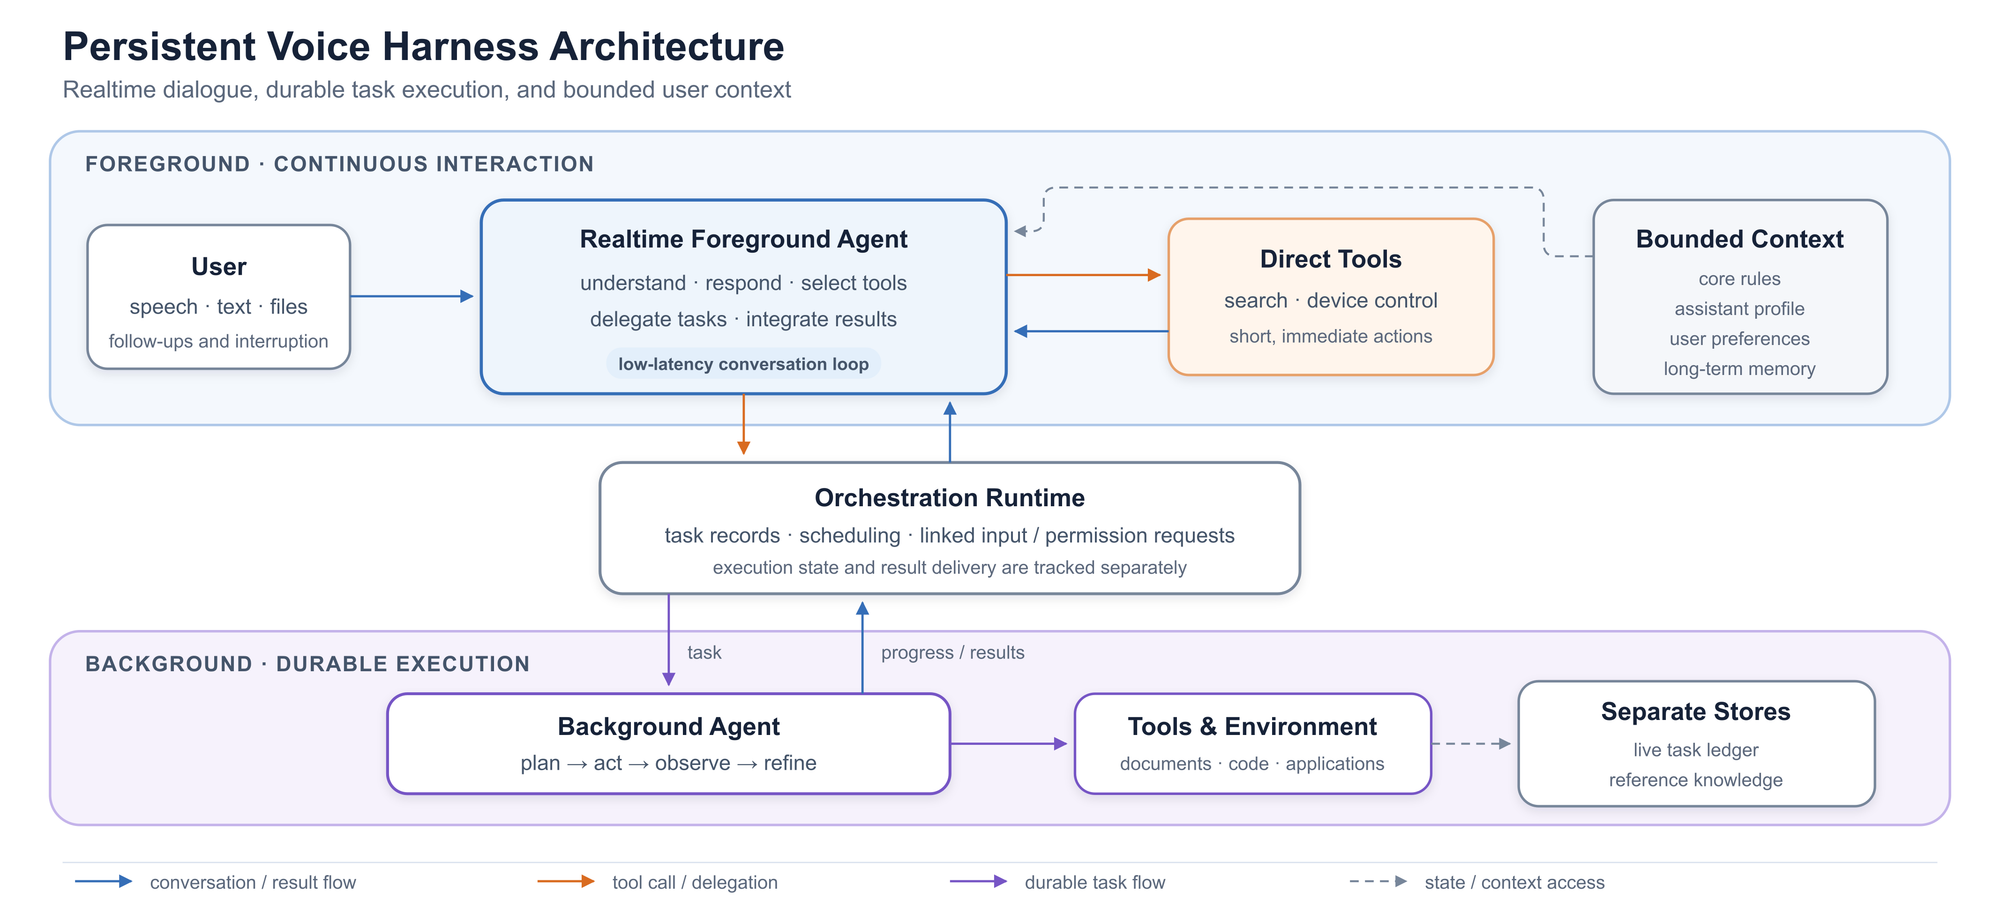
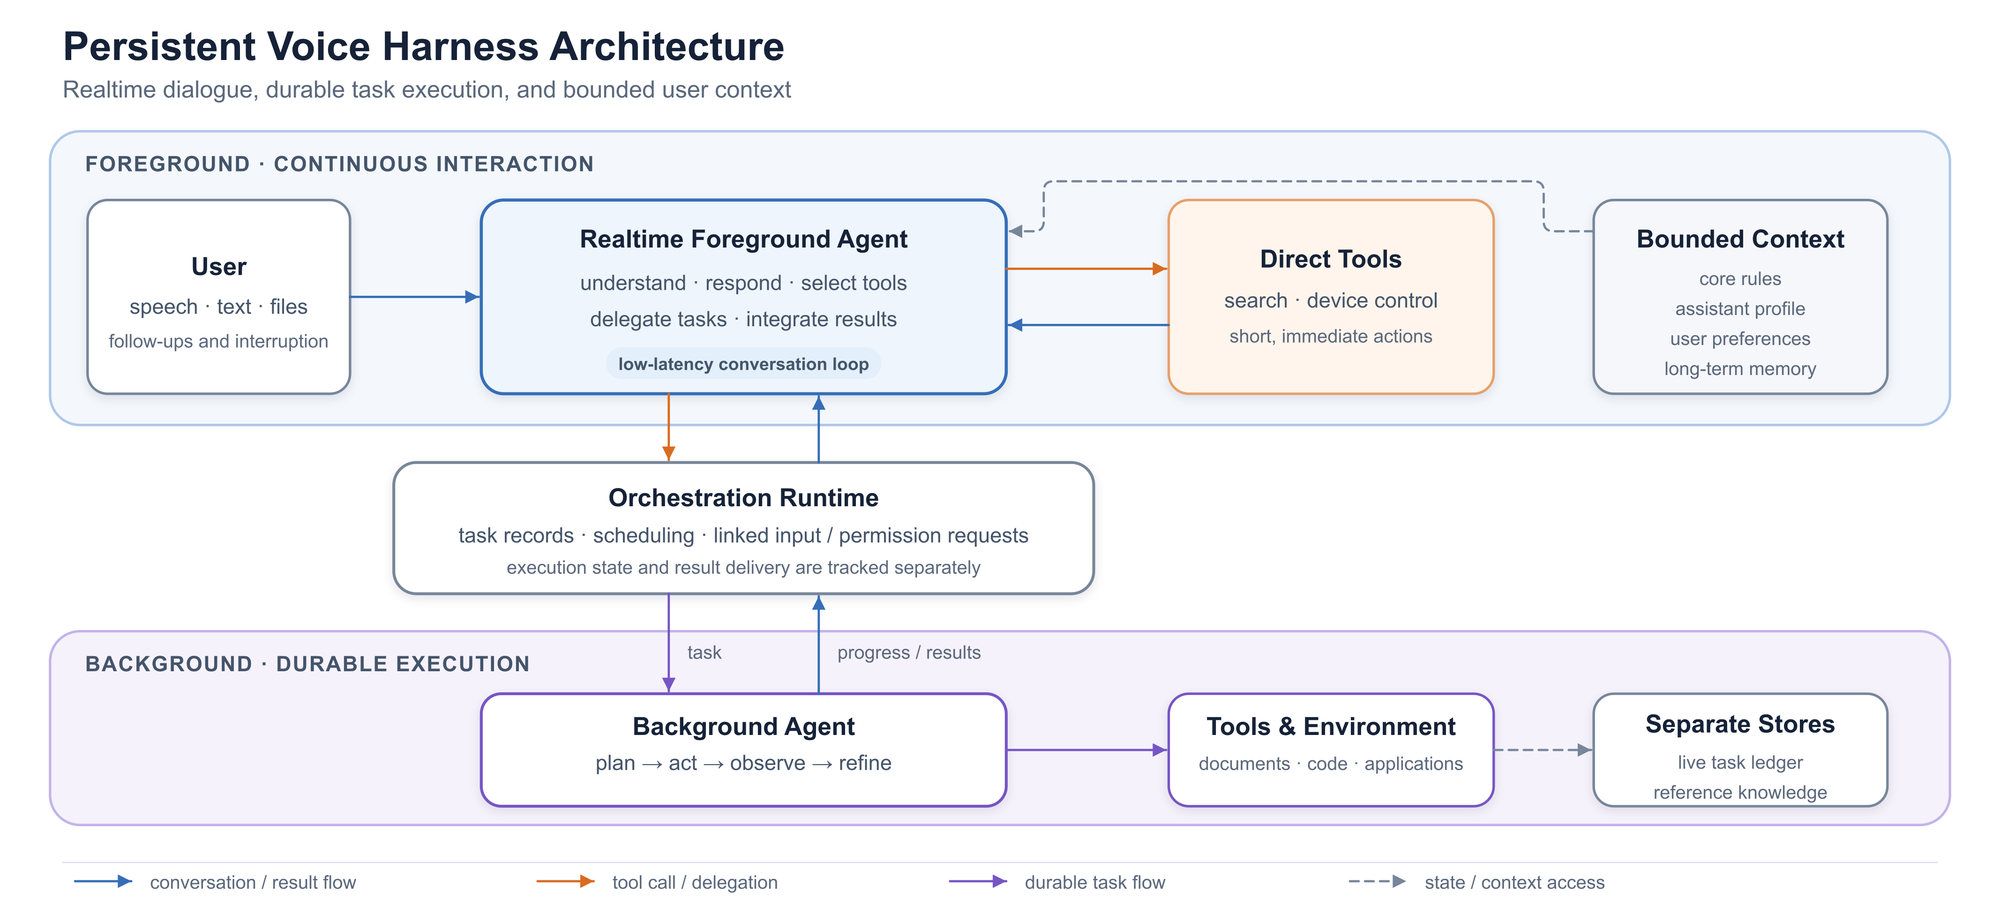
Agent section figure: latest Persistent Voice Harness Architecture (+cache-bust)

diff --git a/qwen-audio-3.1-realtime/index.html b/qwen-audio-3.1-realtime/index.html
@@ -85,7 +85,7 @@
     <section id="agent" class="section wrap agent-section">
       <div class="agent-report-link"><a class="button secondary" href="https://arxiv.org/pdf/2609.25195" target="_blank" rel="noopener">Voice Agent Technical Report <span aria-hidden="true">↗</span></a></div>
       <div class="agent-intro"><div><span class="eyebrow">BEYOND THE MODEL · A SYSTEM EXTENSION</span><h2>Keep talking.<br><span>The work continues.</span></h2></div><p>A persistent voice-agent runtime keeps the conversation responsive while longer tasks move forward—with explicit state, bounded memory, and results delivered at the right moment.</p></div>
-      <figure class="agent-arch"><img src="assets/persistent-voice-harness.png?v=1" width="2000" height="900" loading="lazy" alt="Persistent voice harness architecture: a foreground continuous-interaction layer with the user, realtime foreground agent, direct tools and bounded context; an orchestration runtime tracking task records and permissions; and a background durable-execution layer with a background agent, tools and environment, and separate stores."></figure>
+      <figure class="agent-arch"><img src="assets/persistent-voice-harness.png?v=2" width="2000" height="900" loading="lazy" alt="Persistent voice harness architecture: a foreground continuous-interaction layer with the user, realtime foreground agent, direct tools and bounded context; an orchestration runtime tracking task records and permissions; and a background durable-execution layer with a background agent, tools and environment, and separate stores."></figure>
       <div class="agent-feature-grid"><article><span>↗</span><h3>Direct or delegated</h3><p>Keep short actions in the foreground. Hand multi-step work to a background executor through an explicit task contract.</p></article><article><span>◎</span><h3>State you can trust</h3><p>Track acceptance, execution, completion, and delivery separately. Follow-up inputs remain linked to the original task.</p></article><article><span>⊞</span><h3>Memory with boundaries</h3><p>Separate user preferences, long-term memory, reference knowledge, and live task state. Current instructions take precedence.</p></article></div>
       <div class="agent-demos">
         <h3 class="agent-demos-title">Scenario demos</h3>
